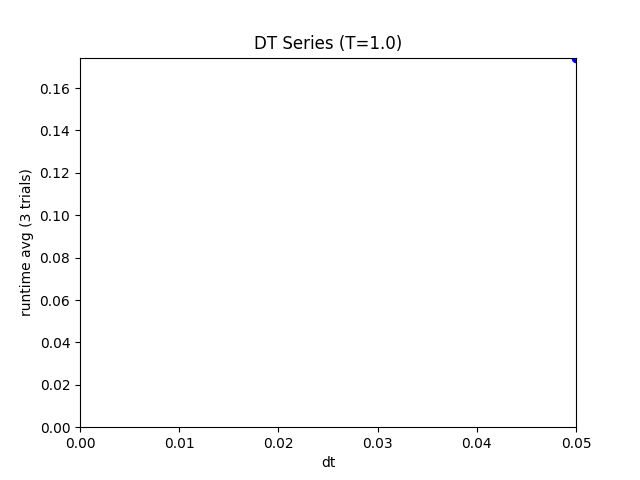
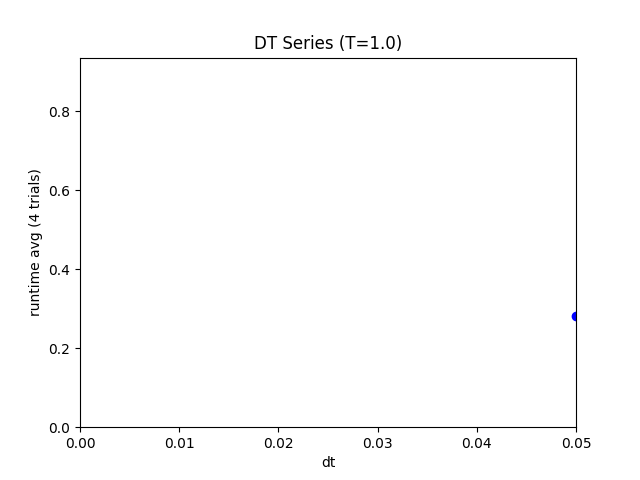
gpu bpycuda boiler + cu pseudocode

diff --git a/reachability/scripts/profiler_zono.py b/reachability/scripts/profiler_zono.py
@@ -10,21 +10,21 @@ import pstats
 
 linear = lambda mini, maxi, frac : mini + (maxi - mini) * frac
 
-numDataTrials = 3
+numDataTrials = 4
 
 #dt config
-dt_Min = .05
-dt_Max = .05
-dt_numSteps = 1
+dt_Min = .01
+dt_Max = .15
+dt_numSteps = 5
 dt_StepFunc = linear
 dt_Steps = [dt_StepFunc(dt_Min, dt_Max, step/(dt_numSteps)) for step in range(dt_numSteps)]
 print("DT steps are:")
 print(dt_Steps)
 
 #total time config
-ttime_Min = 1
+ttime_Min = .5
 ttime_Max = 1
-ttime_numSteps = 1
+ttime_numSteps = 2
 ttime_StepFunc = linear
 ttime_Steps = [ttime_StepFunc(ttime_Min, ttime_Max, step/(ttime_numSteps)) for step in range(ttime_numSteps)]
 print("Total Time Steps are")
@@ -36,7 +36,7 @@ def printResult(r):
 
 results = []
 
-maxSimSteps = 30
+maxSimSteps = 50
 #testing on dt and total
 for totalTime in ttime_Steps:
     print("-----------------------------------")
@@ -53,9 +53,9 @@ for totalTime in ttime_Steps:
                 print("{}".format(t+1), end=' ')
                 runTimeTrials.append(run_quickzono(dt, totalTime, [0, 0, 0], True))
 
-            with open('profiler/raw/profile_out_{}_{}.txt'.format(dt*1000,totalTime), 'w+') as stream:
-                p = pstats.Stats('profiler/prof/out_tmp.prof', stream=stream)
-                p = p.sort_stats("cumtime").print_stats()
+            #with open('profiler/raw/profile_out_{}_{}.txt'.format(dt*1000,totalTime), 'w+') as stream:
+                #p = pstats.Stats('profiler/prof/out_tmp.prof', stream=stream)
+                #p = p.sort_stats("cumtime").print_stats()
             runTime = np.mean(runTimeTrials)
             result = (totalTime, dt, runTime)
             printResult(result)

diff --git a/reachability/scripts/F1QuickZono.py b/reachability/scripts/F1QuickZono.py
@@ -1,20 +1,17 @@
 # library imports
 from functools import partial
 import importlib
-
-#hylaa imports
+#from concurrent.futures import ThreadPoolExecutor, ProcessPoolExecutor
+#import dill
+from multiprocessing import Pool
 
 #local imports
 from nl_dynamics import F1Dynamics
 
 from quickzonoreach.zono import get_zonotope_reachset
+from quickzonoreach.zono_projection import ZP_TYPE, get_ZP_instance
 
-##ROS imports
-#import rospy
-#from osuf1_common import StampedFloat2d, MPC_metadata
-#from profilehooks import profile
-
-#wrapper to run hylaa repeatedly with different inputs
+#wrapper to run quickzono repeatedly with different inputs
 class F1QuickZono:
     def __init__(self):
 
@@ -38,6 +35,9 @@ class F1QuickZono:
         self.input_box_list = []
         self.dt_list = []
         self.save_list = []
+
+
+        self.ZP = get_ZP_instance(ZP_TYPE.GPU_Hybrid)
 
 
     def set_model_params(self, state_uncertainty, input_uncertainty, dynamics_module="kinematics_model"):
@@ -64,7 +64,10 @@ class F1QuickZono:
         self.make_dynamics()
         self.make_init(self.predictions[0][0])
         zonos = self.run_zono()
-        reach = [[a.tolist() for a in z.verts()] for z in zonos]
+
+
+        #do projection for safety analysis in 2d
+        reach = self.ZP.verts(zonos)
         return reach
 
 

diff --git a/reachability/scripts/run_f1zono.py b/reachability/scripts/run_f1zono.py
@@ -48,15 +48,14 @@ def run_quickzono(dt, ttime, initialState, do_profile=False):
     result = None
     print("Running quickzono")
     if do_profile:
-        print("RUNNING PROFILER")
         timer = Timer("""fy.run(predictions)""", globals=globals())
-        return timer.timeit(1)
+        result = timer.timeit(1)
         #profile.runctx('resultprof = fy.run(predictions)', globals(), locals(), filename="profiler/prof/out_tmp.prof")
-        result = locals()['resultprof']
+        #result = locals()['resultprof']
     else:
         #with PyCallGraph(output=GraphvizOutput()):
         result = fy.run(predictions)
-    print("quickzono execution finished.")
+    print("quickzono execution finished.\n")
     #print(result)
     #print("Stateset obj")
     #print(result[0][-3])
